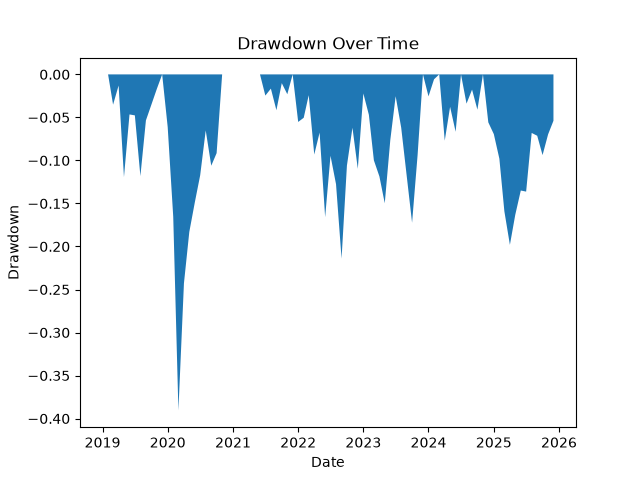
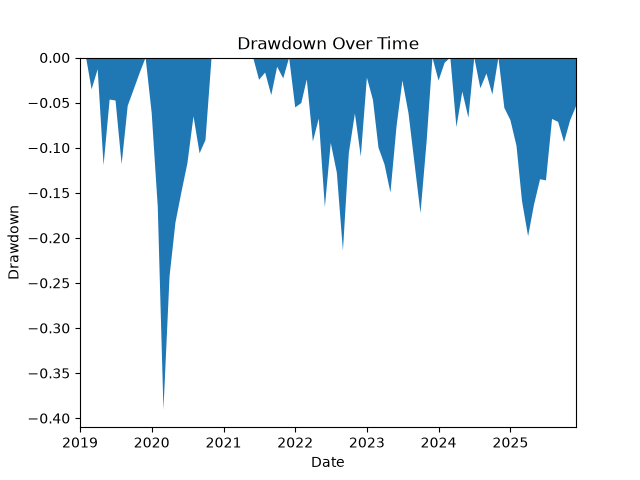
Fixed errors in charts.py, updating drawdown and monthly_heatmap charts

diff --git a/charts.py b/charts.py
@@ -34,6 +34,8 @@ def drawdown(returns: pd.Series, savepath: str = None) -> None:
     ax.set_title("Drawdown Over Time")
     ax.set_xlabel("Date")
     ax.set_ylabel("Drawdown")
+    ax.set_xlim(drawdown.index[0], drawdown.index[-1])
+    ax.set_ylim(top=0)
     if savepath:
         fig.savefig(savepath)
     else:
@@ -48,8 +50,8 @@ def ret_tab(returns: pd.Series) -> pd.DataFrame:
 
 def heatmap(returns: pd.Series, savepath: str = None) -> None:
     table = ret_tab(returns)
-    fig, ax = plt.subplots()
-    im = ax.imshow(table.values, cmap="RdYlGn")
+    fig, ax = plt.subplots(figsize= (12, 5))
+    im = ax.imshow(table.values, cmap="RdBu", aspect = "auto")
     ax.set_yticks(range(len(table.index)))
     ax.set_yticklabels(table.index)
     ax.set_xticks(range(len(table.columns)))
@@ -58,7 +60,7 @@ def heatmap(returns: pd.Series, savepath: str = None) -> None:
         for j in range(len(table.columns)):
             value = table.values[i, j]
             if pd.notna(value):
-                ax.text(j, i, f"{value:.1%}", ha="center", va="center")
+                ax.text(j, i, f"{value:.1%}", ha="center", va="center", fontsize = 7)
     fig.colorbar(im, ax=ax)
     ax.set_title("Monthly Return Heatmap")
     ax.set_xlabel("Month")
